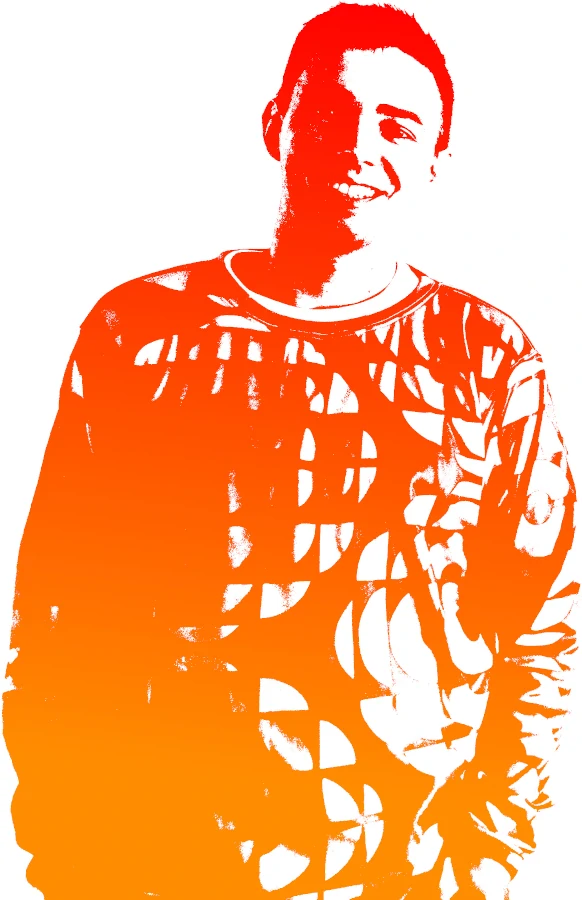
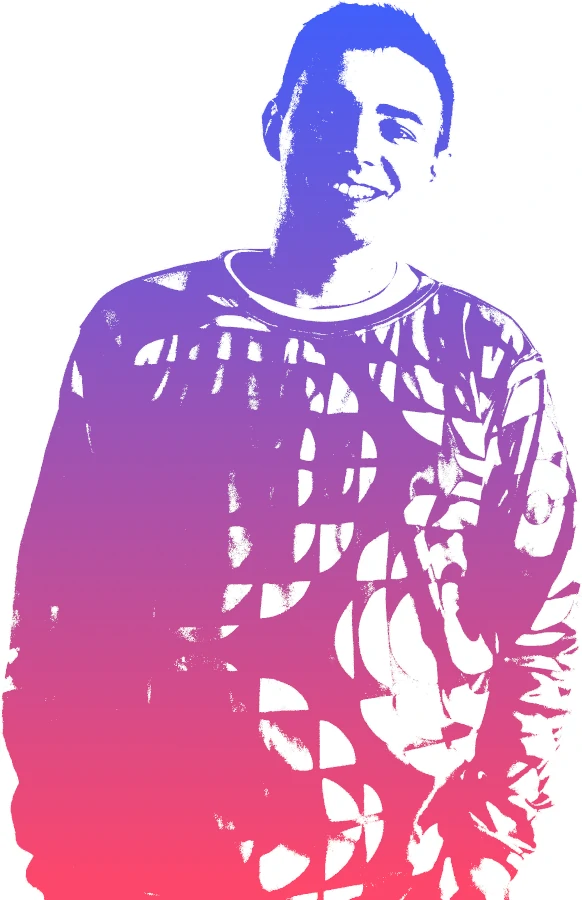
Add new color theme to site

diff --git a/src/components/Footer.tsx b/src/components/Footer.tsx
@@ -9,6 +9,9 @@ import Instagram from "@material-ui/icons/Instagram";
 import LinkedIn from "@material-ui/icons/LinkedIn";
 
 const useStyles = makeStyles({
+  footer: {
+    backgroundColor: "#3d28a4",
+  },
   container: {
     display: "flex",
     flexDirection: "column",
@@ -24,25 +27,35 @@ const useStyles = makeStyles({
       textDecoration: "underline",
     },
   },
+  text: {
+    // TODO: Darken
+    color: "#fff",
+  },
+  icon: {
+    // TODO: Darken
+    color: "#fff",
+  },
 });
 
 function Footer() {
   const classes = useStyles();
 
   return (
-    <footer>
+    <footer className={classes.footer}>
       <Container className={classes.container} maxWidth="md">
         <Grid container className={classes.gridContainer} spacing={2}>
           <Grid item xs={12} md={6}>
-            <Typography>© 2020 Kalle Rouvinen. All rights reserved.</Typography>
+            <Typography className={classes.text}>
+              © 2020 Kalle Rouvinen. All rights reserved.
+            </Typography>
           </Grid>
           <Grid item xs={12} md={6}>
             {/* TODO: Links */}
             <IconButton>
-              <Instagram />
+              <Instagram className={classes.icon} />
             </IconButton>
             <IconButton>
-              <LinkedIn />
+              <LinkedIn className={classes.icon} />
             </IconButton>
             <a
               href="https://github.com/kallerouvinen"
@@ -50,7 +63,7 @@ function Footer() {
               rel="noreferrer noopener"
             >
               <IconButton>
-                <GitHub />
+                <GitHub className={classes.icon} />
               </IconButton>
             </a>
           </Grid>

diff --git a/src/components/sections/section1/TextPanel.tsx b/src/components/sections/section1/TextPanel.tsx
@@ -14,7 +14,7 @@ const useStyles = makeStyles({
     minWidth: 310,
   },
   divider: {
-    backgroundColor: "#ff3200",
+    backgroundColor: "#8655c5",
     width: 225,
     height: 4,
     margin: "16px 0",
@@ -42,8 +42,8 @@ const useStyles = makeStyles({
     },
   },
   first: {
+    color: "#3f5efb",
     fontSize: 45,
-    color: "#ff0000",
     "@media (min-width:600px)": {
       fontSize: 85,
     },
@@ -58,8 +58,8 @@ const useStyles = makeStyles({
     },
   },
   second: {
+    color: "#6e58d7",
     fontSize: 31,
-    color: "#ff2300",
     "@media (min-width:600px)": {
       fontSize: 58,
     },
@@ -74,8 +74,8 @@ const useStyles = makeStyles({
     },
   },
   third: {
+    color: "#9e52b3",
     fontSize: 26,
-    color: "#ff4600",
     "@media (min-width:600px)": {
       fontSize: 49,
     },
@@ -90,8 +90,8 @@ const useStyles = makeStyles({
     },
   },
   fourth: {
+    color: "#cd4c8f",
     fontSize: 28,
-    color: "#ff6900",
     "@media (min-width:600px)": {
       fontSize: 53,
     },
@@ -106,8 +106,8 @@ const useStyles = makeStyles({
     },
   },
   fifth: {
+    color: "#fc466b",
     fontSize: 48,
-    color: "#ff8c00",
     "@media (min-width:600px)": {
       fontSize: 92,
     },

diff --git a/src/components/sections/section4/Section4.tsx b/src/components/sections/section4/Section4.tsx
@@ -13,7 +13,7 @@ const useStyles = makeStyles({
     justifyContent: "center",
     alignItems: "center",
     padding: "192px 0 96px 0",
-    backgroundColor: "purple",
+    backgroundColor: "#6e58d7",
     clipPath: "polygon(0 0, 100% 96px, 100% 100%, 0 100%)",
   },
   container: {
@@ -25,6 +25,9 @@ const useStyles = makeStyles({
   },
   title: {},
   description: {},
+  text: {
+    color: "#fff",
+  },
   buttonContainer: {
     display: "flex",
     justifyContent: "center",
@@ -40,10 +43,12 @@ function Section4() {
       <Container className={classes.container} maxWidth="md">
         <Grid container>
           <Grid item xs={12} md={6}>
-            <Typography gutterBottom variant="h4">
+            <Typography className={classes.text} gutterBottom variant="h4">
               TODO: Title
             </Typography>
-            <Typography gutterBottom>TODO: Description</Typography>
+            <Typography className={classes.text} gutterBottom>
+              TODO: Description
+            </Typography>
             {/* TODO: Status */}
             <Link to="/contact">
               <Button>TODO: Button label</Button>

diff --git a/src/components/sections/section4/Button.tsx b/src/components/sections/section4/Button.tsx
@@ -4,13 +4,14 @@ import { makeStyles } from "@material-ui/core/styles";
 const useStyles = makeStyles({
   button: {
     padding: "12px 64px",
-    border: "2px solid purple",
+    border: "2px solid #3d28a4",
     borderRadius: 48,
     cursor: "pointer",
     transition: "0.3s all",
-    backgroundColor: "#fff",
+    backgroundColor: "#3d28a4",
     "&:hover": {
-      backgroundColor: "purple",
+      backgroundColor: "#2d1e7b",
+      transform: "scale(1.1)",
       "& > *": {
         color: "#fff",
       },
@@ -23,7 +24,7 @@ const useStyles = makeStyles({
     transition: "0.3s all",
     fontFamily: "roboto",
     fontSize: 18,
-    color: "purple",
+    color: "#fff",
     fontWeight: 500,
   },
 });

diff --git a/src/components/sections/menu/Menu.tsx b/src/components/sections/menu/Menu.tsx
@@ -48,13 +48,13 @@ const useStyles = makeStyles({
     border: "none",
     cursor: "pointer",
     transition: "0.3s all",
-    backgroundColor: "purple",
+    backgroundColor: "#3f5efb",
     "& > *": {
       color: "#fff",
       fontSize: 32,
     },
     "&:hover": {
-      backgroundColor: "purple",
+      backgroundColor: "#3f5efb", // TODO: Darken
     },
     "&:focus": {
       outline: "none",
@@ -71,7 +71,7 @@ const useStyles = makeStyles({
     right: 0,
     width: 0,
     height: 0,
-    backgroundColor: "purple",
+    backgroundColor: "#3f5efb",
     borderBottomLeftRadius: size,
     overflow: "hidden",
   },

diff --git a/src/components/sections/section1/ScrollIndicator.tsx b/src/components/sections/section1/ScrollIndicator.tsx
@@ -7,7 +7,7 @@ const useStyles = makeStyles({
     height: 35,
     width: 20,
     borderRadius: 15,
-    border: "solid 2px #ff6900",
+    border: "solid 2px #fc466b",
     alignItems: "center",
     justifyContent: "center",
   },
@@ -15,7 +15,7 @@ const useStyles = makeStyles({
     height: 10,
     width: 4,
     borderRadius: "50%",
-    backgroundColor: "#ff8c00",
+    backgroundColor: "#fc466b",
     animation: "$scroll 0.9s ease infinite alternate",
   },
   "@keyframes scroll": {

diff --git a/src/components/sections/section2/Section2.tsx b/src/components/sections/section2/Section2.tsx
@@ -12,7 +12,7 @@ const useStyles = makeStyles({
     minHeight: 300,
     justifyContent: "center",
     alignItems: "center",
-    backgroundColor: "#f29022",
+    backgroundColor: "#fc466b",
     padding: "96px 0 192px 0",
     borderTop: "5px solid #fff",
     clipPath: "polygon(0 0, 0 calc(100% - 96px), 100% 100%, 100% 0)",
